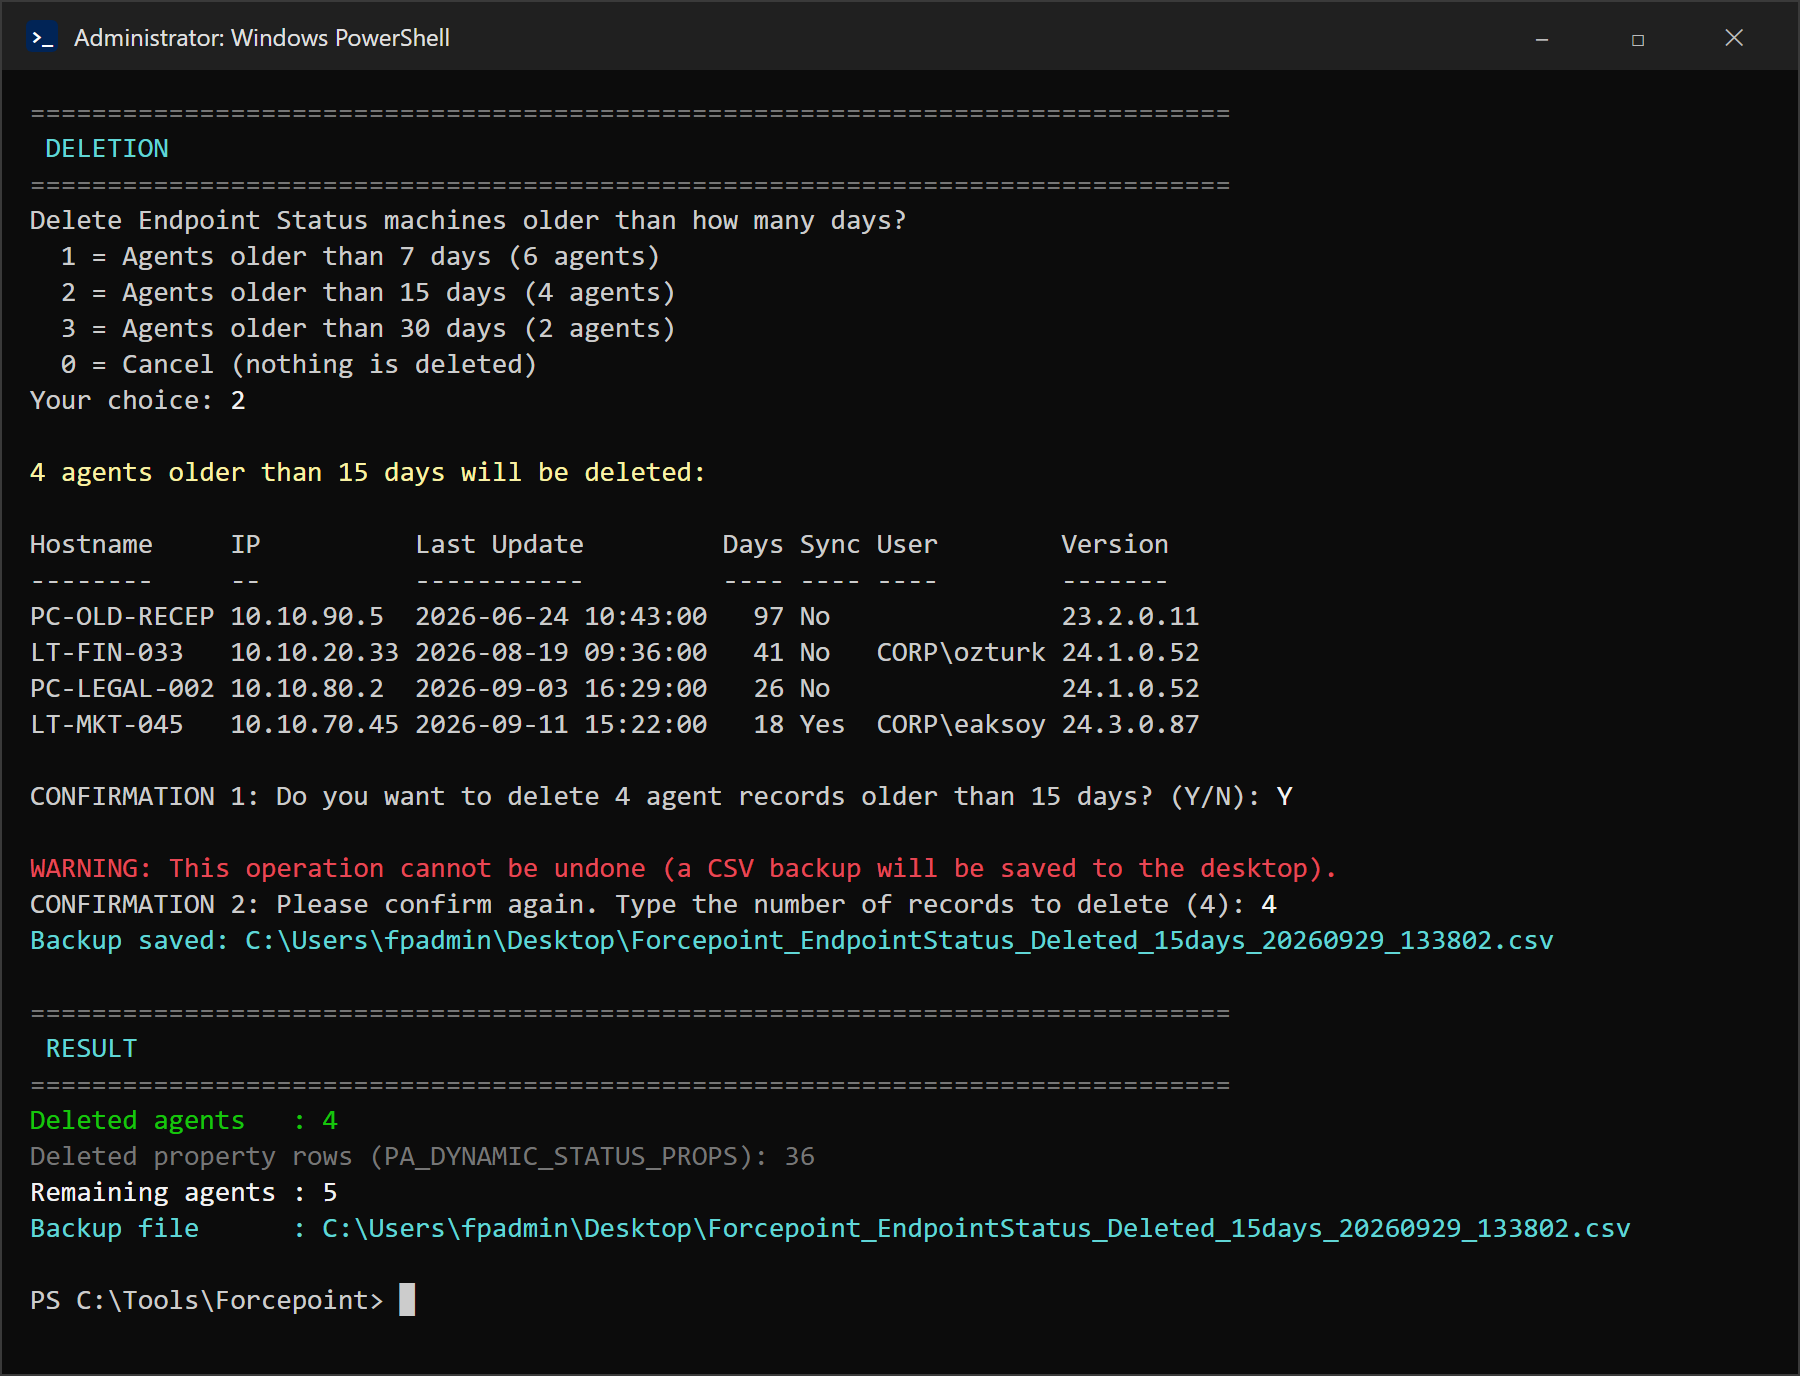
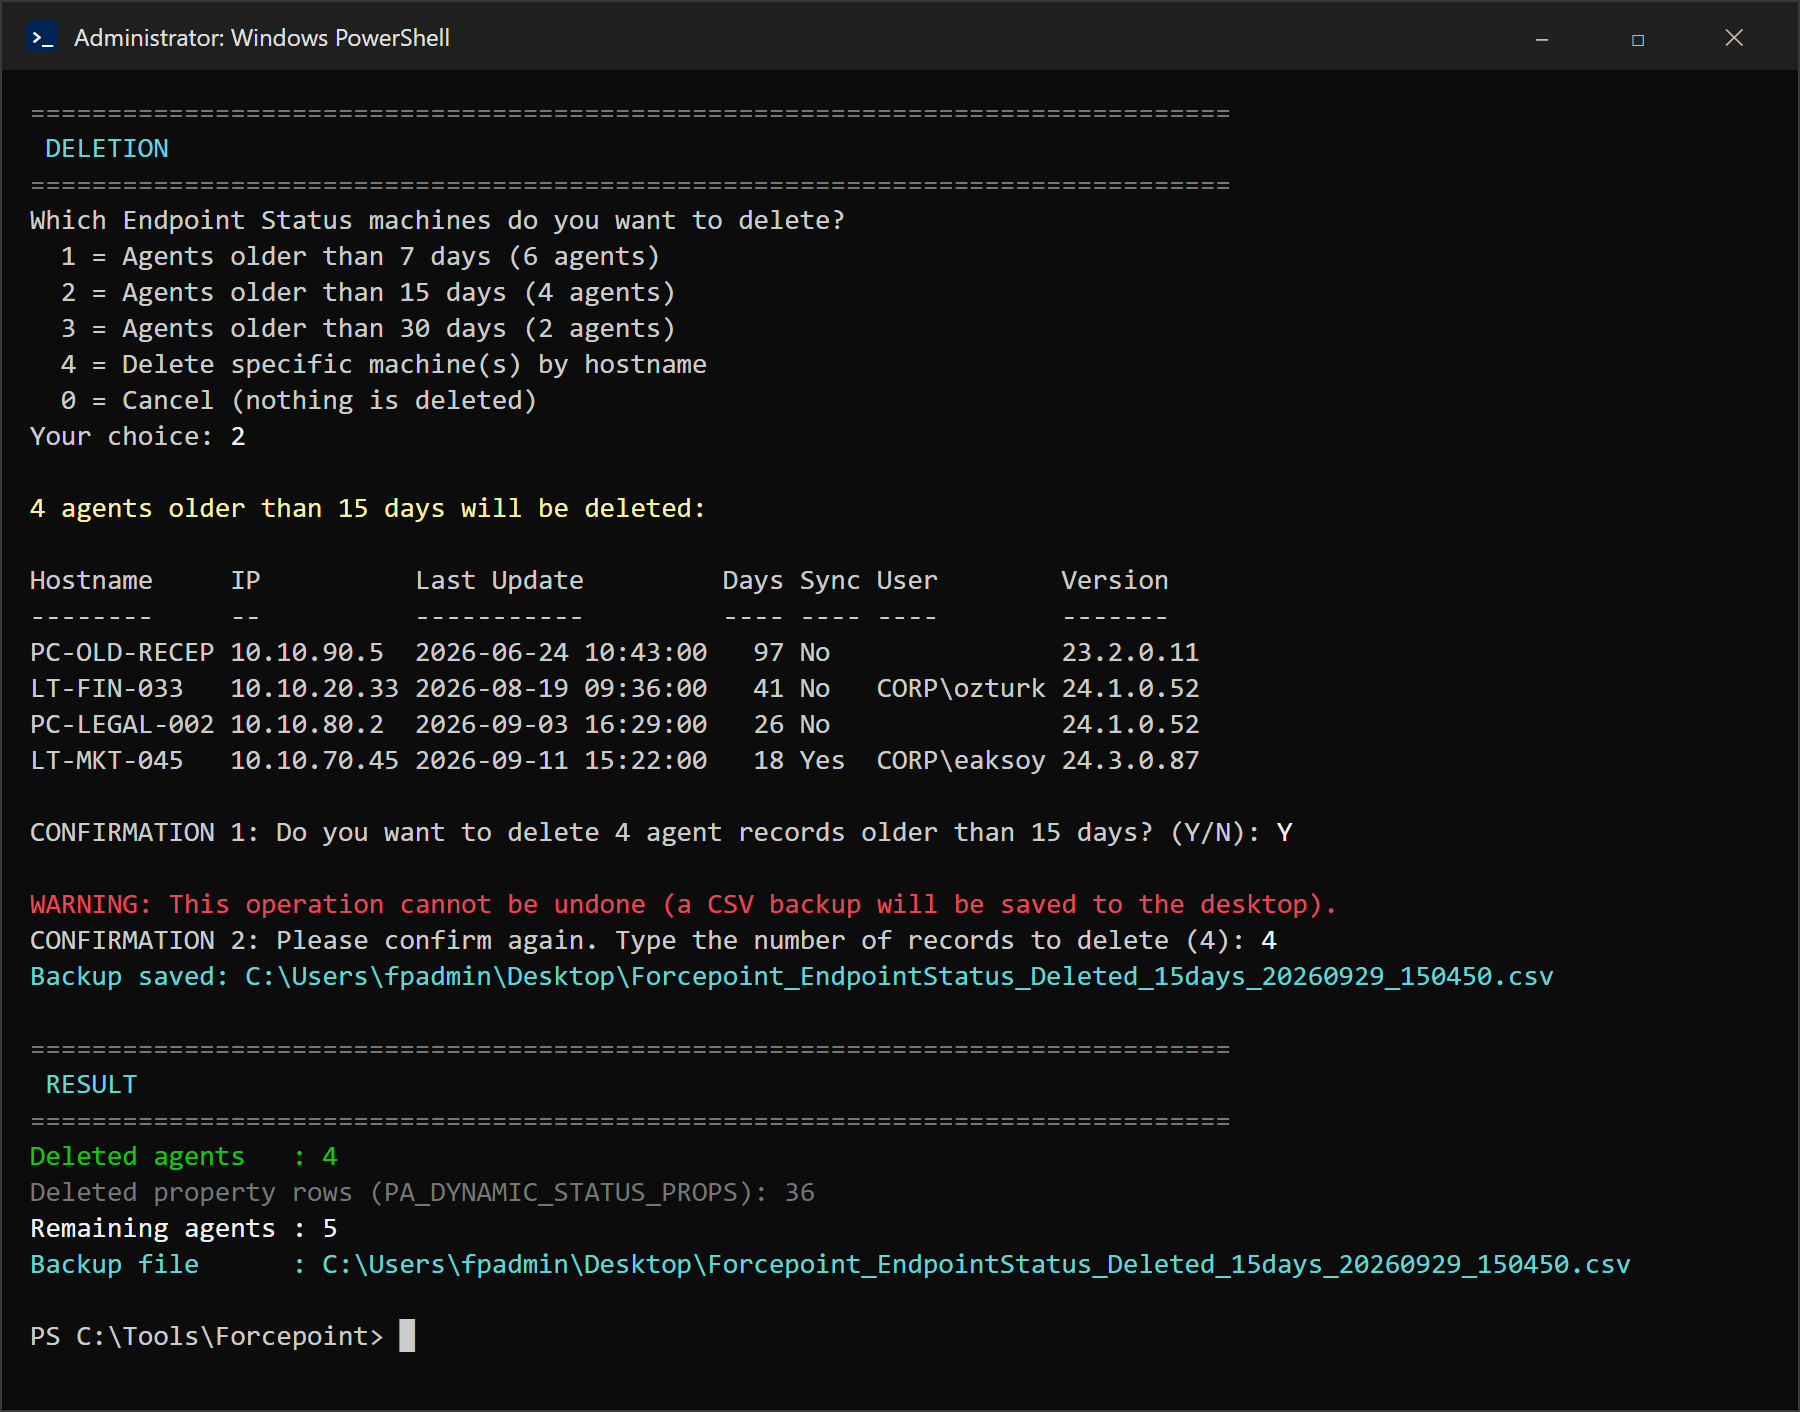
Add files via upload

diff --git a/README.en.md b/README.en.md
@@ -1,0 +1,109 @@
+[Türkçe](README.md) | **English**
+
+# Forcepoint DLP - Endpoint Status Cleanup
+
+`ForcepointAgentCleanup.en.ps1` lists agent records that have not reported for a long time in the Forcepoint Security Manager (FSM) console **Status > Endpoint Status** list, and deletes them with a double confirmation.
+
+## What it does
+
+1. Connects to SQL Server (`sqlcmd.exe`, Windows or SQL Server authentication).
+2. Shows the total number of agents in the system.
+3. Counts agents that have not reported for **7 / 15 / 30 days** and lists them with Hostname, IP, Last Update, Sync, user and version.
+4. Asks how old the records to delete must be.
+5. Requires a **double confirmation**: first Y/N, then typing the number of records to delete.
+6. Backs up the records to be deleted as a CSV on the desktop, deletes them in a single transaction and reports the number of deleted agents.
+
+The "not reporting" duration is calculated from `PA_DYNAMIC_STATUS.UPDATE_DATE` (**Last Update** in the FSM console).
+
+## Scope and safety
+
+- Rows are deleted from only two tables, and **only for the agents shown on screen and confirmed**:
+  - `PA_DYNAMIC_STATUS_PROPS` (agent status properties)
+  - `PA_DYNAMIC_STATUS` (Endpoint Status row)
+- Incident, policy, user and all other tables are never touched. No `DROP`, `TRUNCATE`, `UPDATE` or `ALTER` is used.
+- If either confirmation is not given, nothing is deleted.
+- Agents that reconnect between listing and deletion are not deleted.
+- Records without a Last Update value are never included in deletion.
+- On error, the transaction is rolled back.
+- This does **not** uninstall the agent from the machine. If the agent connects again, its record is recreated.
+
+## Usage
+
+```powershell
+.\ForcepointAgentCleanup.en.ps1
+```
+
+```powershell
+.\ForcepointAgentCleanup.en.ps1 -SqlServerInstance "SQL01" -SqlAuthMode SqlLogin -SqlUserName sa
+```
+
+| Parameter | Default | Description |
+|---|---|---|
+| `-SqlServerInstance` | (prompted) | SQL Server name, e.g. `SERVER` or `SERVER\INSTANCE` |
+| `-SqlDatabaseName` | `wbsn-data-security` | Forcepoint DLP database |
+| `-SqlAuthMode` | (prompted) | `Windows` or `SqlLogin` |
+| `-SqlUserName` | (prompted) | SQL Login username; the password is prompted securely |
+
+Requirements: Windows PowerShell 5.1+, `sqlcmd.exe` in PATH, read/delete permission on the related tables in the database.
+
+## Screenshots
+
+> The screenshots are from a test run of `ForcepointAgentCleanup_v2.en.ps1` with sample agent data. Hostnames, IPs and usernames are not real. In v1, the deletion menu does not have option 4 (delete by hostname).
+
+### 1. Connection, summary and stale agent lists
+
+![Connection, summary and lists](docs/images/en/01-connection-summary-lists.png)
+
+### 2. Threshold selection, double confirmation and deletion result
+
+![Selection, double confirmation and deletion](docs/images/en/02-selection-double-confirmation-deletion.png)
+
+### 3. If the second confirmation does not match, the operation is cancelled
+
+![Second confirmation cancelled](docs/images/en/03-second-confirmation-cancelled.png)
+
+### 4. If "N" is given at the first confirmation, the operation is cancelled
+
+![First confirmation cancelled](docs/images/en/04-first-confirmation-cancelled.png)
+
+### 5. If there are no stale agents, you are informed and can exit with 0
+
+![No stale agents](docs/images/en/05-no-stale-agents.png)
+
+## Version 2: delete a specific machine by hostname
+
+`ForcepointAgentCleanup_v2.en.ps1` has everything in v1 and can also delete specific machine(s) by hostname. The v1 script is unchanged, so both versions can be used side by side.
+
+```powershell
+.\ForcepointAgentCleanup_v2.en.ps1
+```
+
+A new option was added to the deletion menu:
+
+```text
+  4 = Delete specific machine(s) by hostname
+```
+
+- Enter one or more hostnames separated by commas, e.g. `PC-FIN-014, LT-IT-007`.
+- Hostnames must match **exactly** (case-insensitive). Wildcards such as `*`, `?` and `%` are not accepted.
+- Hostnames not found in the list are reported.
+- A warning is shown for machines that still look active (connected within the last 7 days). Even if deleted, they come back to the list on their next connection.
+- Double confirmation, CSV backup and the single transaction still apply. The backup is saved as `Forcepoint_EndpointStatus_Deleted_Selected_....csv`.
+- Machines whose Last Update changed between listing and deletion (reconnected) are not deleted.
+- The menu is shown even when there are no agents older than 7 days, so deleting by hostname is always available.
+
+### 1. Delete by hostname (with a not-found hostname and an active machine warning)
+
+![Delete by hostname](docs/images/en/v2/01-delete-by-hostname.png)
+
+### 2. Wildcards are rejected
+
+![Wildcard rejected](docs/images/en/v2/02-wildcard-rejected.png)
+
+### 3. Delete by hostname when there are no stale agents
+
+![No stale agents, delete by hostname](docs/images/en/v2/03-no-stale-agents-delete-by-hostname.png)
+
+---
+
+Author: FIRAT AYDIN

diff --git a/README.md b/README.md
@@ -1,0 +1,109 @@
+**Türkçe** | [English](README.en.md)
+
+# Forcepoint DLP - Endpoint Status Temizliği
+
+`ForcepointAgentCleanup.ps1`, Forcepoint Security Manager (FSM) konsolundaki **Status > Endpoint Status** listesinde uzun süredir bağlanmayan agent kayıtlarını listeler ve çift onayla siler.
+
+## Ne yapar?
+
+1. SQL Server'a bağlanır (`sqlcmd.exe`, Windows veya SQL Server kimlik doğrulama).
+2. Sistemdeki toplam agent sayısını verir.
+3. **7 / 15 / 30 gündür** erişmeyen agentları sayar ve Hostname, IP, Last Update, Sync, kullanıcı ve versiyon bilgileriyle listeler.
+4. Kaç günden eski kayıtların silineceğini sorar.
+5. **Çift onay** ister: önce E/H, ardından silinecek kayıt sayısının elle yazılması.
+6. Silinecek kayıtları masaüstüne CSV olarak yedekler, tek bir transaction içinde siler ve silinen agent sayısını raporlar.
+
+"Erişmeyen" süresi, `PA_DYNAMIC_STATUS.UPDATE_DATE` alanından hesaplanır (FSM konsolundaki **Last Update**).
+
+## Kapsam ve güvenlik
+
+- Yalnızca iki tablodan, **yalnızca ekranda gösterilip onaylanan agentların** satırları silinir:
+  - `PA_DYNAMIC_STATUS_PROPS` (agent durum özellikleri)
+  - `PA_DYNAMIC_STATUS` (Endpoint Status satırı)
+- Incident, politika, kullanıcı veya başka bir tabloya dokunulmaz. `DROP`, `TRUNCATE`, `UPDATE` veya `ALTER` kullanılmaz.
+- Onaylardan biri verilmezse hiçbir şey silinmez.
+- Listeleme ile silme arasında yeniden bağlanan agentlar silinmez.
+- Last Update bilgisi boş olan kayıtlar silme kapsamına alınmaz.
+- Hata olursa transaction geri alınır.
+- Bu işlem makinelerdeki agentı **kaldırmaz**. Agent tekrar bağlanırsa kaydı yeniden oluşur.
+
+## Kullanım
+
+```powershell
+.\ForcepointAgentCleanup.ps1
+```
+
+```powershell
+.\ForcepointAgentCleanup.ps1 -SqlServerInstance "SQL01" -SqlAuthMode SqlLogin -SqlUserName sa
+```
+
+| Parametre | Varsayılan | Açıklama |
+|---|---|---|
+| `-SqlServerInstance` | (sorulur) | SQL Server adı, örn. `SUNUCU` veya `SUNUCU\INSTANCE` |
+| `-SqlDatabaseName` | `wbsn-data-security` | Forcepoint DLP veritabanı |
+| `-SqlAuthMode` | (sorulur) | `Windows` veya `SqlLogin` |
+| `-SqlUserName` | (sorulur) | SQL Login kullanıcı adı; parola güvenli olarak sorulur |
+
+Gereksinimler: Windows PowerShell 5.1+, PATH'te `sqlcmd.exe`, veritabanında ilgili tablolar için okuma/silme yetkisi.
+
+## Ekran görüntüleri
+
+> Görüntüler, `ForcepointAgentCleanup_v2.ps1` ile örnek agent verisi kullanılarak yapılan test çalıştırmasından alınmıştır. Hostname, IP ve kullanıcı adları gerçek değildir. v1'de silme menüsündeki 4. seçenek (hostname ile silme) yoktur.
+
+### 1. Bağlantı, özet ve eski agent listeleri
+
+![Bağlantı, özet ve liste](docs/images/01-baglanti-ozet-liste.png)
+
+### 2. Gün seçimi, çift onay ve silme sonucu
+
+![Seçim, çift onay ve silme](docs/images/02-secim-cift-onay-silme.png)
+
+### 3. İkinci onay eşleşmezse işlem iptal edilir
+
+![İkinci onay iptal](docs/images/03-ikinci-onay-iptal.png)
+
+### 4. Birinci onayda "H" verilirse işlem iptal edilir
+
+![Birinci onay iptal](docs/images/04-birinci-onay-iptal.png)
+
+### 5. Eski agent yoksa bilgi verilir, 0 ile çıkılır
+
+![Eski agent yok](docs/images/05-eski-agent-yok.png)
+
+## Versiyon 2: belirli makineyi hostname ile silme
+
+`ForcepointAgentCleanup_v2.ps1`, v1'in tüm özelliklerine ek olarak belirli makine(ler)i hostname ile silebilir. v1 scripti değişmeden duruyor, iki sürüm yan yana kullanılabilir.
+
+```powershell
+.\ForcepointAgentCleanup_v2.ps1
+```
+
+Silme menüsüne yeni bir seçenek eklendi:
+
+```text
+  4 = Belirli makine(ler)i hostname ile sil
+```
+
+- Bir veya birden fazla hostname virgülle ayrılarak girilir, örneğin `PC-FIN-014, LT-IT-007`.
+- Hostname'ler **birebir** eşleşmelidir (büyük/küçük harf fark etmez). `*`, `?`, `%` gibi joker karakterler kabul edilmez.
+- Listede bulunamayan hostname'ler ayrıca belirtilir.
+- Hâlâ aktif görünen (7 günden yeni bağlanmış) makineler için uyarı verilir. Bu makineler silinse bile bir sonraki bağlantılarında listeye geri gelir.
+- Çift onay, CSV yedek ve tek transaction aynen geçerlidir. Yedek dosyası `Forcepoint_EndpointStatus_Silinen_Secili_....csv` adıyla kaydedilir.
+- Listeleme ile silme arasında Last Update değeri değişen (yeniden bağlanan) makineler silinmez.
+- 7 günden eski agent olmasa bile menü gösterilir, böylece hostname ile silme her zaman kullanılabilir.
+
+### 1. Hostname ile silme (bulunamayan hostname ve aktif makine uyarısıyla)
+
+![Hostname ile silme](docs/images/v2/01-hostname-ile-silme.png)
+
+### 2. Joker karakter reddedilir
+
+![Joker karakter reddi](docs/images/v2/02-joker-karakter-reddi.png)
+
+### 3. Eski agent yokken hostname ile silme
+
+![Eski agent yokken hostname ile silme](docs/images/v2/03-eski-agent-yokken-hostname-ile-silme.png)
+
+---
+
+Hazırlayan: FIRAT AYDIN
